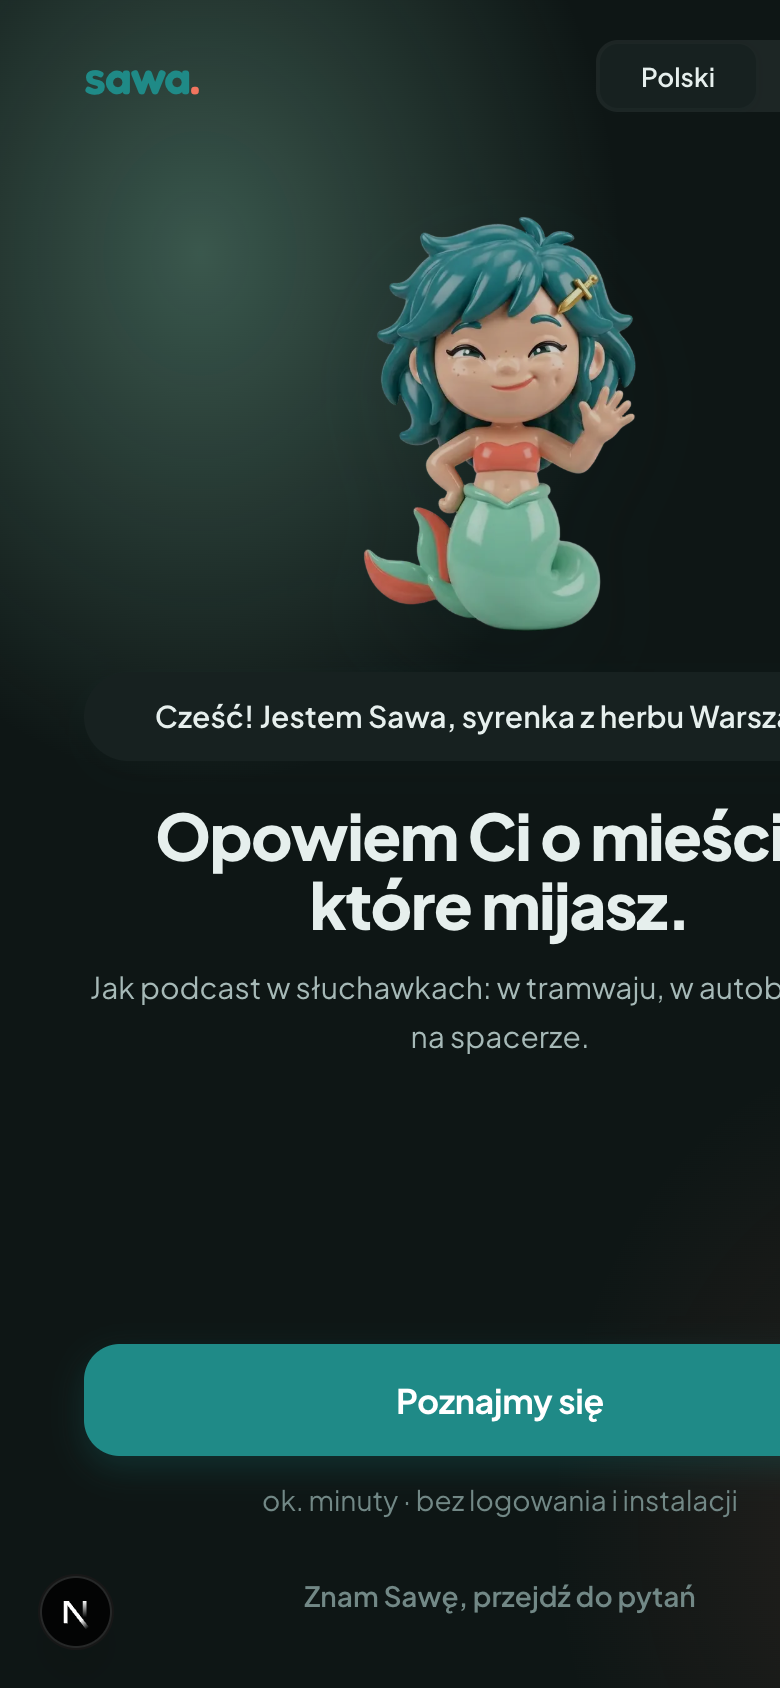
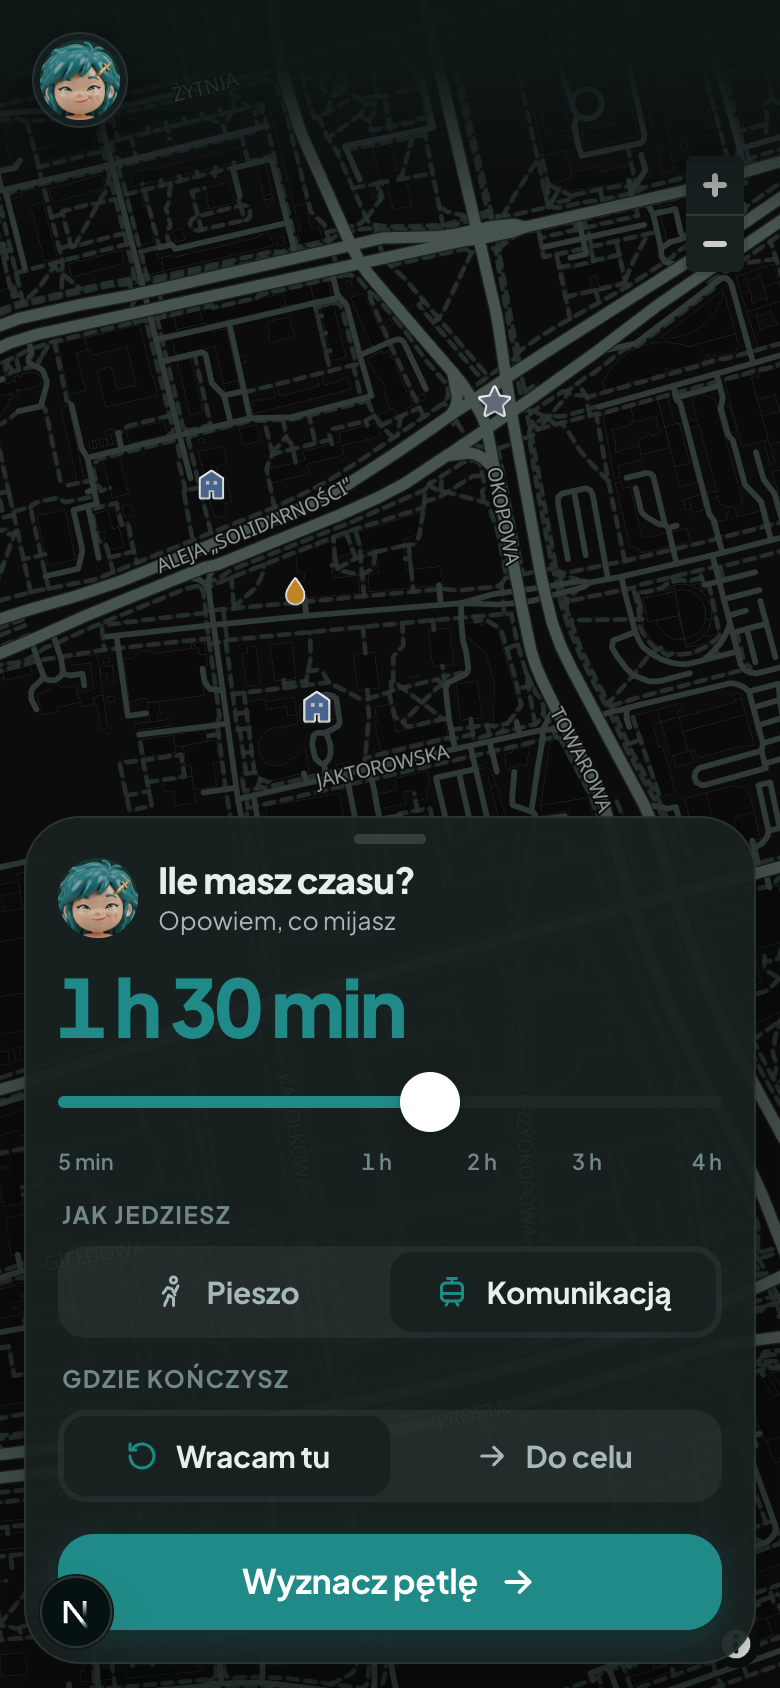
suwak czasu: rzadsze podziałki, wartość nad suwakiem

diff --git a/docs/ui/README.md b/docs/ui/README.md
@@ -21,6 +21,8 @@ Każdy zrzut ma jedną linię poniżej: plik, co pokazuje, decyzja (jeśli jest)
 
 | Plik | Co pokazuje | Zadanie | Decyzja |
 |---|---|---|---|
+| [2310-czas-nad-suwakiem-mobile](wyniki/2310-czas-nad-suwakiem-mobile.png) | Karta wyznaczania (ciemny motyw): pełny tytuł „Ile masz czasu?”, wartość 40 px w osobnym wierszu nad suwakiem, podziałki 5 min, 1 h, 2 h, 3 h, 4 h | T-143 | |
+| [2300-czas-a](propozycje/2300-czas-a-wartosc-nad-suwakiem-mobile.png), [b](propozycje/2300-czas-b-wartosc-jako-tytul-mobile.png), [c](propozycje/2300-czas-c-dymek-nad-kciukiem-mobile.png) | Nagłówek karty wyznaczania: „Ile masz czasu?” ucina się, bo w jednym wierszu stoją awatar, tytuł i wartość 52 px. **A · Wartość nad suwakiem**: nagłówek na całą szerokość, duża wartość w osobnym wierszu tuż nad suwakiem (+ok. 50 px wysokości). **B · Wartość jako tytuł**: „Masz 1 h 30 min” zamiast pytania, karta najniższa, liczba mniejsza. **C · Dymek nad kciukiem**: wartość jedzie z kciukiem; trzeba pilnować krawędzi i palca na telefonie. Podziałki rzadsze (5 min, 1 h, 2 h, 3 h, 4 h), jak w T-143. HTML: `propozycje/html/2300-czas-*.html` | ekran główny, T-143 | wybrany A (17.10, 23:05), wdrożony |
 | [2120-ulica-klik-mobile](wyniki/2120-ulica-klik-mobile.png), [hover-desktop](wyniki/2120-ulica-hover-desktop.png) | /mapa: kliknięta Chłodna z pasem i linią wzdłuż całej ulicy pod ikonami; na desktopie po najechaniu na ikonę Ogrodowej delikatny pas | T-154 | |
 | [2000-ulice-jako-linie-00-zestawienie](propozycje/2000-ulice-jako-linie-00-zestawienie.png) | Ulice jako linie zamiast jednej ikony (27 ulic w bazie to punkty, linię bierzemy z kafelków OpenFreeMap: `transportation_name`, filtr po nazwie). **A · Zakreślacz**: szeroki półprzezroczysty pas w kolorze grupy, nazwa wzdłuż linii. **B · Tablica na linii**: linia z białą obwódką jak trasa, co kawałek tablica z nazwą, po wybranej płynie przerywany ślad. **C · Sznur pereł**: z daleka znacznik, od zoomu 15 kropki wzdłuż ulicy, wybrana z poświatą i przesuwającymi się kropkami. Punkt ulicy w bazie leży na jej początku, więc ikonę trzeba przenieść na środek linii. HTML: `propozycje/html/ulice-jako-linie.html` | mapa | |
 | [2100-klastry-jasny-mobile](wyniki/2100-klastry-jasny-mobile.png), [ciemny](wyniki/2100-klastry-ciemny-mobile.png), [2100-kolor-tematu-jasny-mobile](wyniki/2100-kolor-tematu-jasny-mobile.png), [ciemny](wyniki/2100-kolor-tematu-ciemny-mobile.png), [2100-legenda-jasny-mobile](wyniki/2100-legenda-jasny-mobile.png), [ciemny](wyniki/2100-legenda-ciemny-mobile.png) | /mapa/playground bez trasy, 390 px: przy zoomie ok. 12 szklane kółka z liczbą miejsc, przy 15 pojedyncze naklejki; kolor glifu = kolor tematu (jak chipy), kształt = rodzaj; zwijana legenda pod przyciskami zoomu | T-150 (#101), T-151 (#102) | kolor punktu = temat, klastry wracają |

diff --git a/docs/todo.md b/docs/todo.md
@@ -150,7 +150,7 @@ Paweł robi frontend i generowanie głosu (T-43). Opowieści (T-45, T-41, T-42) 
 - [x] **T-140** Wyszukiwanie celu znajduje też ulice i adresy (dziś Google Places zwraca tylko miejsca) ([#97](https://github.com/Pawel-Uhma/Sawa/issues/97)). Równolegle z Text Search: Autocomplete (New) z typami adresu i ulicy + Place Details, adres pierwszy, pole `kind` w kontrakcie, pinezka w UI — `R3` — (Paweł z agentem, 20:25–20:40; do sprawdzenia na produkcji po deployu)
 - [ ] **T-141** Ciemny motyw: jaśniejsze ulice na mapie, syrenka czytelna na ciemnym tle — `R3` (Antek)
 - [ ] **T-142** Stany czekania (spinner, kółka) w czcionce i kolorach Sawy — `R3`
-- [ ] **T-143** Suwak czasu: rzadsze podziałki (np. co 30 min), gęste się nakładają — `R3` (Paweł)
+- [x] **T-143** Suwak czasu: rzadsze podziałki (np. co 30 min), gęste się nakładają — `R3` (Paweł, 23:10: podziałki 5 min, 1 h, 2 h, 3 h, 4 h; wartość czasu w osobnym wierszu nad suwakiem, bo ucinała „Ile masz czasu?”, wariant 2300-A)
 - [x] **T-148** Stop i pauza zatrzymują zegar jazdy także przed pierwszym miejscem: osobny stan „zatrzymane przez użytkownika” (`held` w `useRideClock`), wznowienie od tego samego miejsca, GPS (`useGpsClockSync`) nie przesuwa zegara przy zatrzymanej Sawie (#93) — `R3` — (Paweł z agentem, 17.10, 20:11, PR w toku)
 - [ ] **T-144** Głos czyta lata źle („1099” zamiast 1939, „1090” zamiast 1940, „5355” zamiast 53/55): sprawdzić, czy prompt pisze liczby słownie (T-98) — `R4`
 - [x] **T-145** Przetestować proxy z home labu (#63) na produkcji: API miasta, pojazdy — `R1` + Antek — (Jasiek, 20:15: PR #86, `WAW_API_BASE_URL` i `WAW_PROXY_KEY` na Railway; `/v1/vehicles/track` `stale: false` z pojazdami, odjazdy `realDeparture: true`)
